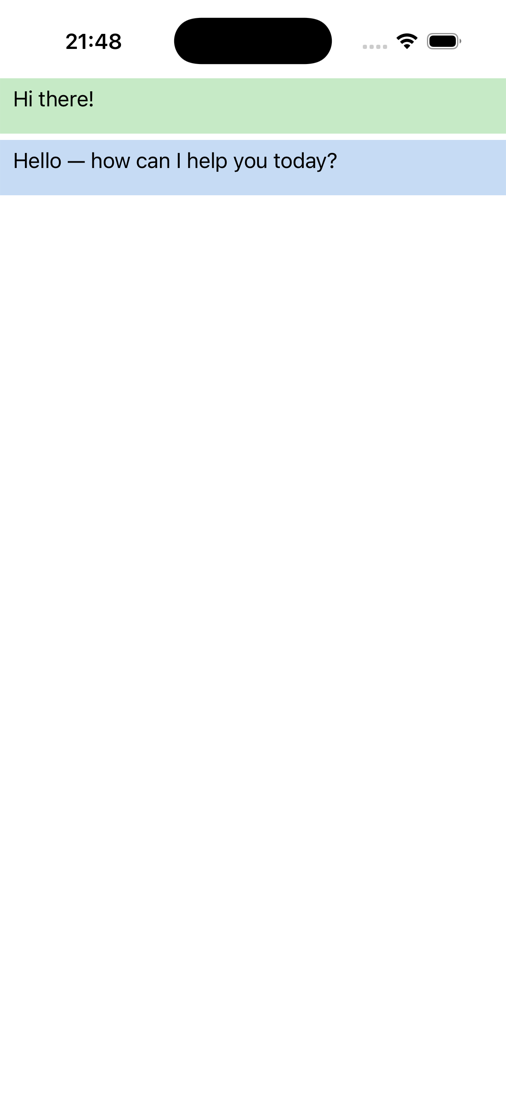
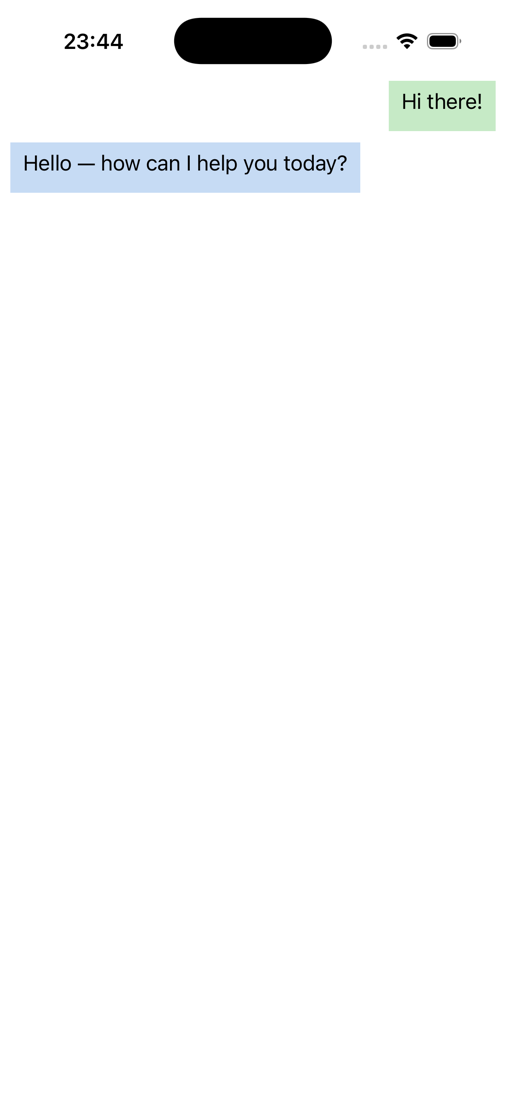
fix(ios/collectionview): honor cell content HorizontalOptions (content-width pills)
The iOS CV cell (MauiCollectionViewCell in collection_view_handler.mm) always
stretched the realized template content to the full cell width
(`content.frame = contentView.bounds` + flexible autoresizing), ignoring the
content's HorizontalLayoutAlignment — so content-width, side-aligned cells
(e.g. chat bubbles) rendered as full-width colored bars.

Now the cell reads the realized root's horizontal_layout_alignment:
  - Fill (the default — almost every template) still spans the full cell width,
    flexible autoresizing — unchanged behavior.
  - Start/Center/End is measured and arranged content-width via the cross-platform
    measure + arrange (compute_frame resolves the aligned X + margin-inset extent
    and pushes the frame through platform_arrange, recursing into child views),
    the C# TemplatedCell2 measure+arrange-its-content path.
The new layoutTemplatedContent helper runs from layoutSubviews so a recycled cell
or a bounds change re-applies the frame (autoresizing alone can't express the
non-Fill alignments).

Verified: chat_example now renders MAUI's per-sender content-width bubbles (green
local right-aligned, blue remote left-aligned), matching csharp_ios ground truth
(residual: square corners — documented single-root-cell StrokeShape limitation;
and a separate pre-existing dark-mode label-text-color issue). Regression check:
the full CV family (collectionview, items, grouping, selection, grid, carousel,
[…]

Changed region(s): [[0.0, 0.0309, 1.0, 0.1855]]

diff --git a/port/cpp/src/platform/ios/collection_view_handler.mm b/port/cpp/src/platform/ios/collection_view_handler.mm
@@ -60,7 +60,10 @@
 #include "maui/core/i_element.hpp"
 #include "maui/core/i_element_handler.hpp"
 #include "maui/core/i_maui_context.hpp"
+#include "maui/core/i_view.hpp"
 #include "maui/core/i_view_handler.hpp"
+#include "maui/core/layout_alignment.hpp"
+#include "maui/graphics/rect.hpp"
 
 namespace
 {
@@ -140,9 +143,8 @@ namespace
     _templatedContent = content;
     if (content != nil)
     {
-        content.frame = self.contentView.bounds;
-        content.autoresizingMask = UIViewAutoresizingFlexibleWidth | UIViewAutoresizingFlexibleHeight;
         [self.contentView addSubview:content];
+        [self layoutTemplatedContent];
     }
 }
 
@@ -152,6 +154,46 @@ namespace
     // previous content never frees the incoming native view mid-swap.
     _realizedContent = std::move(realized);
     [self showTemplatedContent:content];
+}
+
+// Frame the hosted template content within the cell's contentView, honoring the realized root's
+// HorizontalLayoutAlignment — the C# TemplatedCell2 measuring + arranging its content view rather than
+// stretching it. A Fill root (the default — what almost every template uses) spans the full cell width,
+// exactly as before. A Start / Center / End root is measured and sized to its own desired width, then
+// left / center / right-aligned within the cell (the chat-bubble / pill behavior) by routing through the
+// cross-platform measure + arrange: compute_frame resolves the aligned X and the margin-inset extent and
+// pushes the frame to the native view via platform_arrange (recursing into any child views). Re-run from
+// layoutSubviews so a recycled cell or a bounds change re-applies the frame — autoresizing alone cannot
+// express the non-Fill alignments.
+- (void)layoutTemplatedContent
+{
+    if (_templatedContent == nil)
+    {
+        return;
+    }
+    const CGRect bounds = self.contentView.bounds;
+    auto* const view = dynamic_cast<maui::core::i_view*>(_realizedContent.get());
+    if (view == nullptr || view->horizontal_layout_alignment() == maui::core::layout_alignment::fill)
+    {
+        // Fill (or a non-view root): the content spans the whole cell. Flexible autoresizing keeps it
+        // stretched across UIKit's own layout passes (the prior behavior — most templates rely on this).
+        _templatedContent.autoresizingMask = UIViewAutoresizingFlexibleWidth | UIViewAutoresizingFlexibleHeight;
+        _templatedContent.frame = bounds;
+        return;
+    }
+    // Content-width: measure the root against the cell, then arrange it within the cell bounds. arrange
+    // resolves the aligned frame (compute_frame) and sets the native view's frame via platform_arrange,
+    // so a Start/Center/End bubble lands content-width at the correct edge. autoresizing is cleared —
+    // layoutSubviews re-runs this on every bounds change.
+    _templatedContent.autoresizingMask = UIViewAutoresizingNone;
+    view->measure(bounds.size.width, bounds.size.height);
+    view->arrange(maui::graphics::rect{0.0, 0.0, bounds.size.width, bounds.size.height});
+}
+
+- (void)layoutSubviews
+{
+    [super layoutSubviews];
+    [self layoutTemplatedContent];
 }
 
 - (void)prepareForReuse

diff --git a/port/cpp/docs/comparison/README.md b/port/cpp/docs/comparison/README.md
@@ -129,7 +129,7 @@ The **AI review** column is an independent automated second opinion (Gemini by d
 | 109 | Empty View View | 🟡<br>L:minor<br>D:minor | — | <img src="csharp_ios_light/empty_view_view.png" height="360"> | <img src="cpp_ios_light/empty_view_view.png" height="360"> | <img src="csharp_ios_dark/empty_view_view.png" height="360"> | <img src="cpp_ios_dark/empty_view_view.png" height="360"> |
 | 110 | Empty View Load Simulate | 🟡🎬<br>L:minor<br>D:minor | — | <img src="csharp_ios_light/empty_view_load_simulate.png" height="360"> | <img src="cpp_ios_light/empty_view_load_simulate.png" height="360"> | <img src="csharp_ios_dark/empty_view_load_simulate.png" height="360"> | <img src="cpp_ios_dark/empty_view_load_simulate.png" height="360"> |
 | 111 | Carousel Page | 🟡🎬<br>L:minor<br>D:minor | — | <img src="csharp_ios_light/carousel_page.png" height="360"> | <img src="cpp_ios_light/carousel_page.png" height="360"> | <img src="csharp_ios_dark/carousel_page.png" height="360"> | <img src="cpp_ios_dark/carousel_page.png" height="360"> |
-| 112 | Chat Example | 🔴<br>L:diff<br>D:diff | — | <img src="csharp_ios_light/chat_example.png" height="360"> | <img src="cpp_ios_light/chat_example.png" height="360"> | <img src="csharp_ios_dark/chat_example.png" height="360"> | <img src="cpp_ios_dark/chat_example.png" height="360"> |
+| 112 | Chat Example | 🔴<br>L:minor<br>D:diff | — | <img src="csharp_ios_light/chat_example.png" height="360"> | <img src="cpp_ios_light/chat_example.png" height="360"> | <img src="csharp_ios_dark/chat_example.png" height="360"> | <img src="cpp_ios_dark/chat_example.png" height="360"> |
 | 113 | Items Updating Scroll Mode | 🟡<br>L:minor<br>D:minor | — | <img src="csharp_ios_light/items_updating_scroll_mode.png" height="360"> | <img src="cpp_ios_light/items_updating_scroll_mode.png" height="360"> | <img src="csharp_ios_dark/items_updating_scroll_mode.png" height="360"> | <img src="cpp_ios_dark/items_updating_scroll_mode.png" height="360"> |
 | 114 | Radio Button Group | 🟡<br>L:minor<br>D:minor | — | <img src="csharp_ios_light/radio_button_group.png" height="360"> | <img src="cpp_ios_light/radio_button_group.png" height="360"> | <img src="csharp_ios_dark/radio_button_group.png" height="360"> | <img src="cpp_ios_dark/radio_button_group.png" height="360"> |
 | 115 | Radio Button Group Binding | 🟢⚠<br>L:match<br>D:match | — | <img src="csharp_ios_light/radio_button_group_binding.png" height="360"> | <img src="cpp_ios_light/radio_button_group_binding.png" height="360"> | <img src="csharp_ios_dark/radio_button_group_binding.png" height="360"> | <img src="cpp_ios_dark/radio_button_group_binding.png" height="360"> |
@@ -639,9 +639,9 @@ Concrete, per-theme notes for every page with a diff, a broken reference, or a m
 - **Light:** Carousel item now renders BIG + centered ('Item 1') matching MAUI's caption. Residual: the port adds Prev/Next buttons + a 'Position' readout below (an intentional demo affordance — the C# carousel has none and is swiped; documented in the page header), so the C++ item is shorter to leave room. Faithful deviation.
 - **Dark:** Same as light; big centered item + the intentional Prev/Next affordances.
 
-### 112. Chat Example — 🔴 (L:diff / D:diff)
-- **Light:** Root cause = iOS CV cell content-sizing (SHARED with varied_size_selector + the header_footer family). The bubble templates set the label's HorizontalOptions=Start/End (remote left/blue, local right/green) + Padding(10,6)/Margin(8,2), but the realized iOS CV cell STRETCHES its content to full cell width and ignores the content's HorizontalOptions — so the bubbles render as full-width colored bars instead of MAUI's content-width pills aligned by sender. Secondary, documented: the single-root templated cell can't carry the Border StrokeShape, so the bubbles are square-cornered (no rounded pill). Fixing the iOS CV cell to honor content HorizontalOptions + content-width sizing would address this whole cluster (deep/risky — touches every collection view).
-- **Dark:** Same as light — bubbles render full-width (iOS CV cell stretches content, ignoring HorizontalOptions) instead of content-width pills aligned by sender; square-cornered (single-root cell, no StrokeShape). Shared CV cell-sizing root cause.
+### 112. Chat Example — 🔴 (L:minor / D:diff)
+- **Light:** iOS CV cell now honors the content's HorizontalOptions — FIXED. collection_view_handler.mm MauiCollectionViewCell reads the realized root's horizontal_layout_alignment: a Fill root still spans the full cell (unchanged), while a Start/Center/End root is measured and arranged content-width via the cross-platform arrange. The green (local) bubble is now content-width RIGHT-aligned and the blue (remote) bubble content-width LEFT-aligned, matching MAUI's per-sender pills (alignment + fill colors + Padding/Margin now match). RESIDUAL (documented, out of scope): the single-root templated cell can't carry the Border RoundRectangle StrokeShape, so the bubbles are square-cornered vs MAUI's CornerRadius=12 rounded pills.
+- **Dark:** Content-width per-sender alignment FIXED, same as light (collection_view_handler.mm MauiCollectionViewCell now measures + arranges non-Fill cell content content-width via the cross-platform arrange instead of stretching it): the green (local) bubble is content-width RIGHT-aligned and the blue (remote) bubble content-width LEFT-aligned, matching MAUI's per-sender pills (bubble geometry + pastel fills + margins now match). Two residuals remain: (1) the bubble text renders light instead of MAUI's explicit TextColor=Black — a SEPARATE, pre-existing label-text-color-under-dark-appearance issue (the explicit black is not honored in dark mode; visible on the prior capture too, unrelated to this cell-sizing fix); (2) the single-root templated cell can't carry the Border RoundRectangle StrokeShape, so the bubbles are square-cornered vs MAUI's CornerRadius=12 (documented single-root reduction). The headline full-width-bar bug is resolved.
 
 ### 113. Items Updating Scroll Mode — 🟡 (L:minor / D:minor)
 - **Light:** All content matches: 'UpdatingScrollMode:' header, KeepItemsInView/KeepScrollOffset buttons, 'Add Item' button, 'Mode: KeepItemsInView · Items: 50' status, and the Title N — Subtitle N list. Diff: C++ CollectionView row spacing is roughly double MAUI's (C++ ~50px tall rows showing ~17 items, MAUI tight ~24px rows). Cosmetic row-height difference only.
